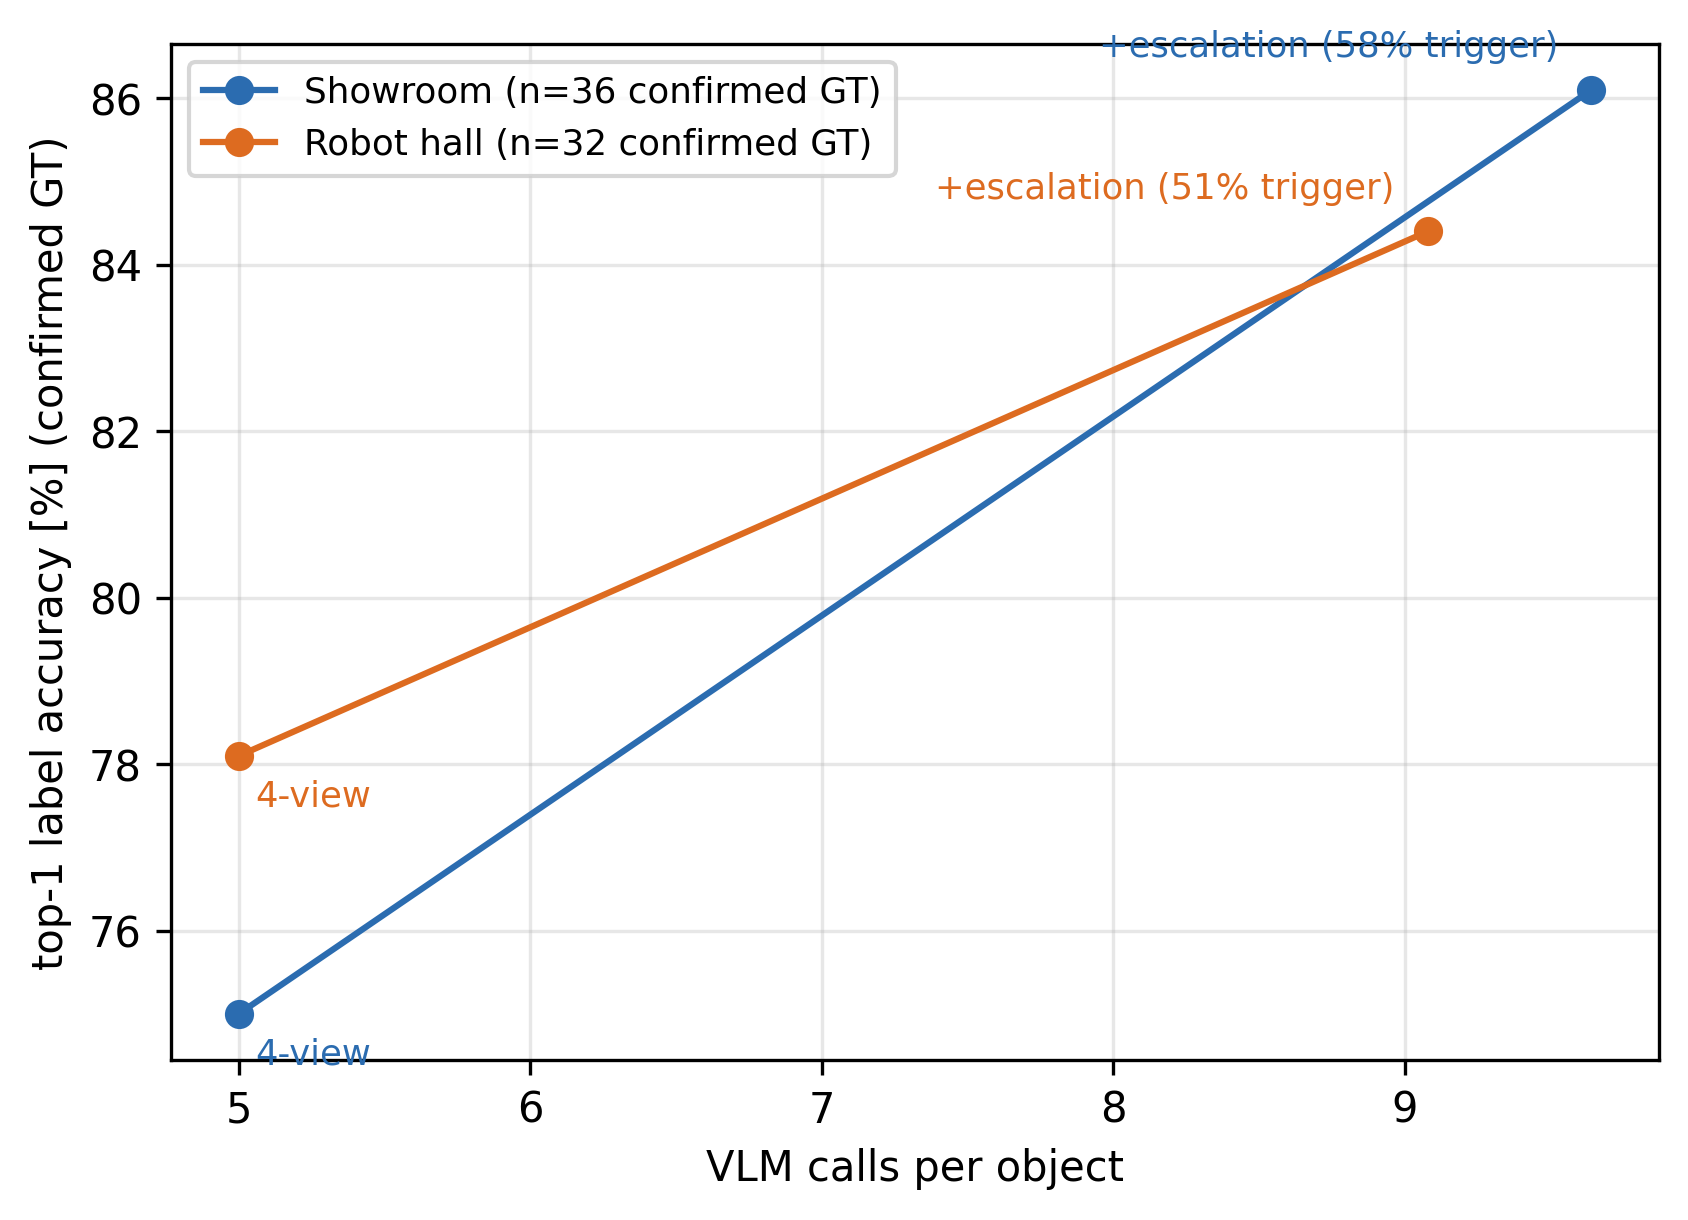
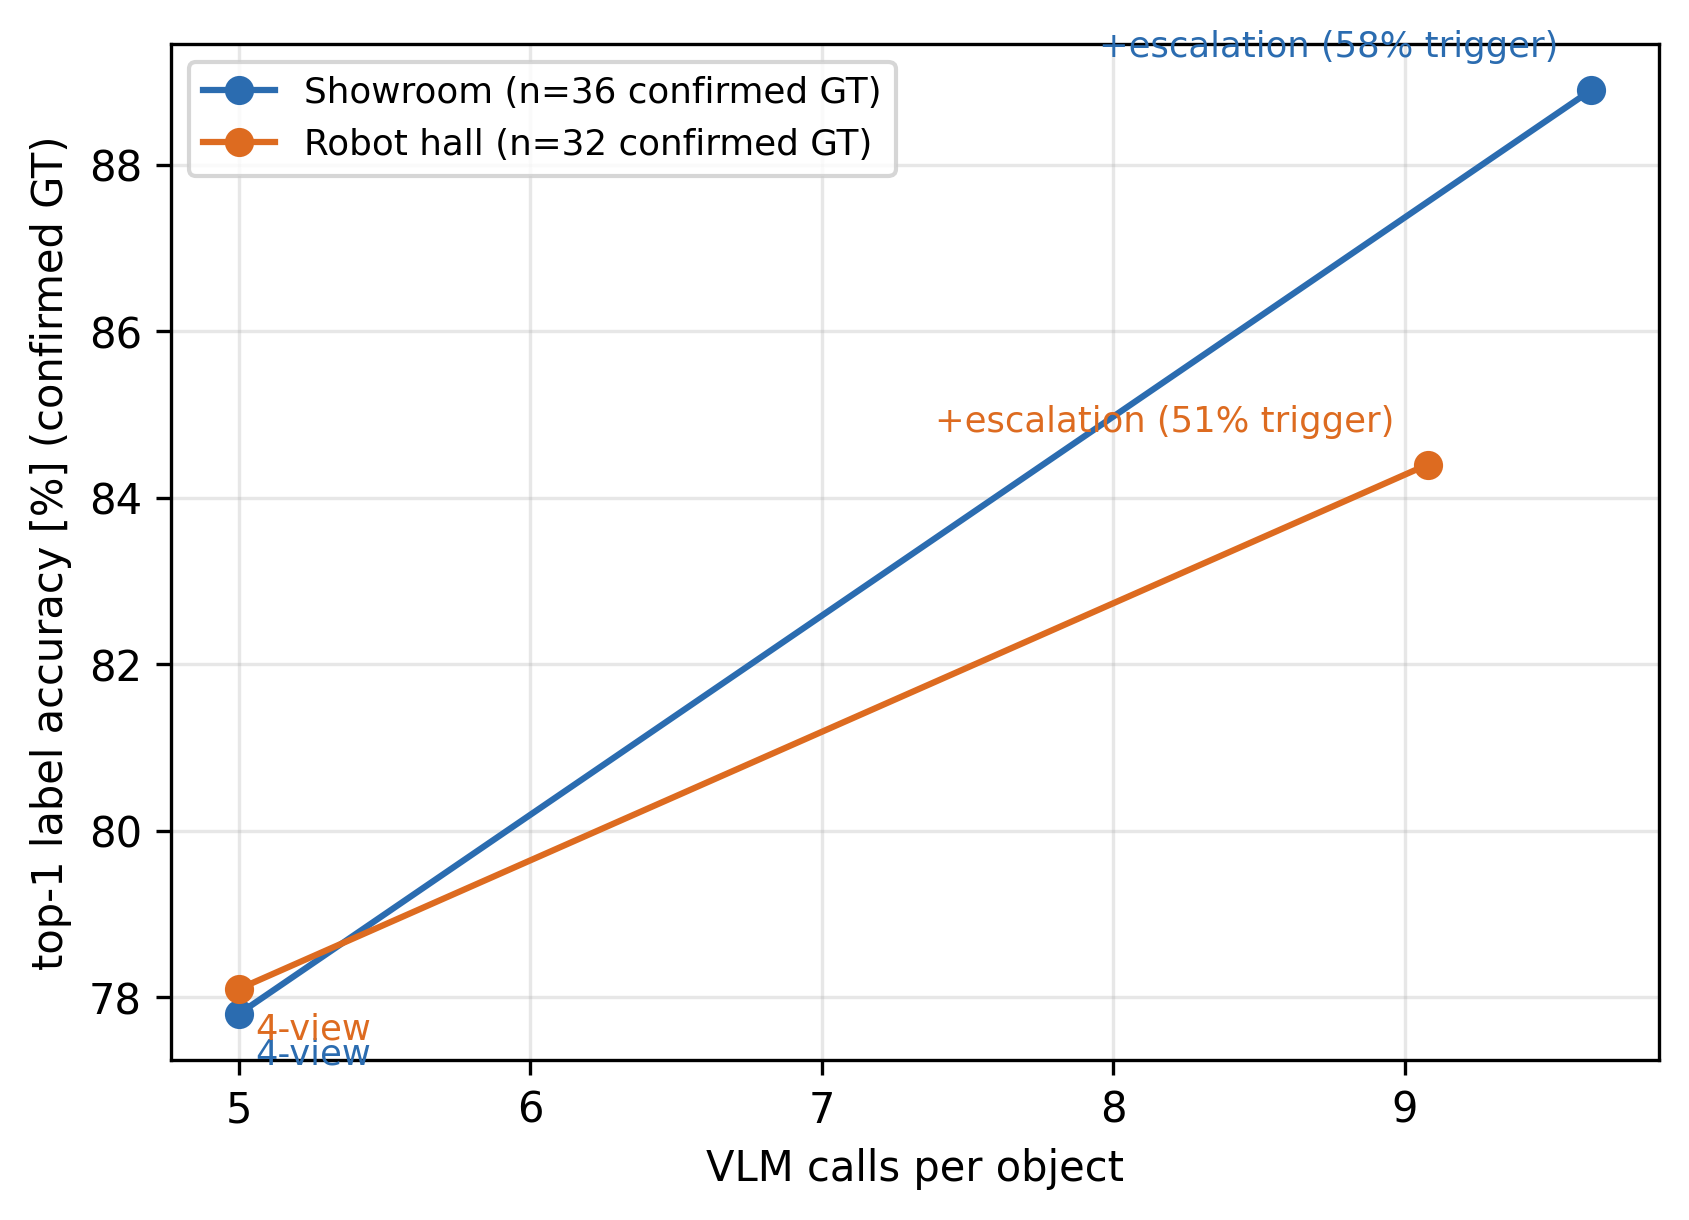
Model-neutral 4.4 + verifier control in 5.1; Sonnet-5 upgrade check in 5.3; current-grading rescore (77.8/88.9); cost-not-accuracy caveat in 5.7

diff --git a/docs/electronics2026/manuscript/sec5_experiments.tex b/docs/electronics2026/manuscript/sec5_experiments.tex
@@ -66,6 +66,15 @@ uses the metrics of Sec.~\ref{sec:matching}: matching accuracy,
 identity-switch rate, false-new, false-absent, and unchanged stability.
 
 \paragraph{Controls.}
+The verifier for the main campaign (Secs.~5.2--5.5) is fixed to a single
+model, \texttt{claude-sonnet-4-6} (the frontier mid-tier at campaign start):
+every verification, escalation, and owner interaction in the accumulated
+knowledge-graph lineage was produced under this one verifier, so results
+remain comparable across sections and revisions. The verifier choice itself
+is then evaluated in Sec.~\ref{sec:exp-ablation}, which repeats the
+identical Stage-B protocol across five commercial VLMs, and
+Sec.~\ref{sec:exp-verify} additionally reports the headline verification
+study re-run under the best-ranked model.
 All query conditions share the same LLM (\texttt{claude-sonnet-4-6}), system
 prompt, query set, decoding parameters, retry policy, and forced answer
 schema; conditions differ \emph{only} in the knowledge view they receive.
@@ -246,18 +255,18 @@ e.g., 21 unanimous $+$ 29 split $=$ 50.}
  & \multicolumn{2}{c}{Showroom ($n{=}36$)} & \multicolumn{2}{c}{Robot hall ($n{=}32$)} \\
  & base-4 & escalated & base-4 & escalated \\
 \midrule
-Accuracy & 75.0\% & \textbf{86.1\%} & 78.1\% & \textbf{84.4\%} \\
+Accuracy & 77.8\% & \textbf{88.9\%} & 78.1\% & \textbf{84.4\%} \\
 Recovered / regressed & \multicolumn{2}{c}{5 / 1} & \multicolumn{2}{c}{3 / 0} \\
 Escalation trigger & \multicolumn{2}{c}{58\% (29/50)} & \multicolumn{2}{c}{51\% (26/51)} \\
 \midrule
 Unanimous precision & \multicolumn{2}{c}{100\% (21/21)} & \multicolumn{2}{c}{94.4\% (of 25)} \\
 Escalated precision & \multicolumn{2}{c}{100\%} & \multicolumn{2}{c}{88.9\%} \\
-Unverified precision & \multicolumn{2}{c}{50\%} & \multicolumn{2}{c}{40\%} \\
+Unverified precision & \multicolumn{2}{c}{60\%} & \multicolumn{2}{c}{40\%} \\
 \bottomrule
 \end{tabular}
 \end{table}
 
-Escalation lifts confirmed-GT accuracy from 75.0\% to 86.1\% on the showroom
+Escalation lifts confirmed-GT accuracy from 77.8\% to 88.9\% on the showroom
 and from 78.1\% to 84.4\% on the robot hall (lenient: 76.2\%
 $\rightarrow$ 83.3\%, $n{=}42$), recovering 5 and 3 split-vote objects while
 regressing 1 and 0 (Table~\ref{tab:verification};
@@ -265,7 +274,7 @@ Fig.~\ref{fig:esccost} shows the accuracy--cost trade-off at
 $\sim$\$0.009/call; escalation adds 232 and 208 calls per scene). The tier
 structure
 justifies gating: unanimous and escalated tiers reach 88.9--100\% precision,
-while the unverified residue is 40--50\%---exactly the content the query
+while the unverified residue is 40--60\%---exactly the content the query
 interface must demote. A separate check evaluates the room-scoped T1 objects
 in the update-study frame (Sec.~\ref{sec:exp-update}), where showroom GT is
 transferred to the re-decomposed clusters by bidirectional point overlap;
@@ -276,6 +285,28 @@ Verification yield tracks scan quality: the manual scan leaves 47\% of
 objects unverified versus 24\% for exploration scans, and re-processing the
 T3 scan from a single setup (1/6 coverage) drops the verified tier from
 75.6\% to 56.6\% on identical geometry. Coverage buys verifiability.
+
+\paragraph{Verifier upgrade check.}
+Because the ground truth is fixed and scoring is automatic, the entire
+study re-runs unchanged under a different verifier. Re-running both scenes
+under \texttt{claude-sonnet-5}---the model Sec.~\ref{sec:exp-ablation}
+ranks most decisive---confirms the decisiveness transfer: escalation
+triggers fall from 58\% to 50\% (showroom) and from 51\% to 33\% (robot
+hall), unanimous verifications rise from 21 to 25 and from 25 to 34, and
+escalation calls drop from 232 to 200 and from 208 to 136. The freed
+decisiveness is not free accuracy, however: unanimous precision falls
+from 100\% to 91.7\% and from 94.4\% to 83.3\%, and escalated accuracy
+lands at 69.4\% and 81.2\% (vs.\ 88.9\% and 84.4\%). The dominant new
+failure is clutter absorption---real chairs, junction boxes, and a
+control panel unanimously verified as \texttt{clutter}---i.e., the newer
+model re-distributes error mass from indecision into confident
+under-labeling on these 512-px render sets, while on the 1024-px renders
+of Sec.~\ref{sec:exp-ablation} it ties for the best type accuracy.
+Verifier upgrades therefore change \emph{where} errors live rather than
+uniformly removing them, which is precisely why the framework treats
+verification as tiered evidence behind a gate rather than as truth: the
+tier structure, the escalation economics, and the owner loop survive a
+verifier swap; the specific precision figures do not.
 
 \paragraph{Error taxonomy.}
 Four recurring error classes emerged (Fig.~\ref{fig:taxonomy}):
@@ -628,7 +659,7 @@ count-phrased trap leaked, 3/4)---still the single strongest argument that
 reliability must live in the data contract, not in instructions. \emph{Pose context}: injecting mounting-height context as a
 targeted defense removed all three phantom ceiling keyboards in its pilot,
 but applying it to every object \emph{reduced} escalated accuracy
-(86.1\%$\rightarrow$72.2\%) and escalated precision
+(88.9\%$\rightarrow$75.0\%) and escalated precision
 (100\%$\rightarrow$72.7\%)---a desk-height prior that helps ceilings hurts
 everything else, so it ships as a targeted defense only. \emph{Uni3D
 vocabulary}: generic-30 66.7\% $>$ curated-20 48.7\% $>$ owner-18 33.3\%
@@ -654,12 +685,17 @@ is generation-dominated, not vendor-dominated: both 2026-generation
 mid-tiers beat both older Claude tiers, and cross-vendor differences
 within the generation are smaller than the tier effects. Escalation
 volume is thus a label-free, online proxy for verifier decisiveness on
-the deployment's own data --- and a purchasing guide: pick the
-cheapest verifier whose escalation rate has saturated. The guide is
-robust where prices are not: a vendor repricing days before our runs
-moved one verifier's end-to-end cost five-fold
-(Table~\ref{tab:vlmcmp}, note~2), while the decisiveness ordering it
-would be applied to is measured on the deployment's own data.
+the deployment's own data --- and a purchasing guide for \emph{cost}:
+pick the cheapest verifier whose escalation rate has saturated. It is
+not a proxy for accuracy: the upgrade check of
+Sec.~\ref{sec:exp-verify} shows the most decisive model trading
+unanimous precision for its decisiveness on the two full GT scenes, so
+quality must still be priced by a small labeled probe set or by
+accumulated owner feedback. The cost guide is robust where prices are
+not: a vendor repricing days before our runs moved one verifier's
+end-to-end cost five-fold (Table~\ref{tab:vlmcmp}, note~2), while the
+decisiveness ordering it would be applied to is measured on the
+deployment's own data.
 
 \begin{table}[t]
 \centering

diff --git a/docs/electronics2026/manuscript/sec4_methodology.tex b/docs/electronics2026/manuscript/sec4_methodology.tex
@@ -120,11 +120,15 @@ label a robot may act on must pass the verification stage below.
 
 Verification renders each object from four azimuths ($0^{\circ}$,
 $90^{\circ}$, $180^{\circ}$, $270^{\circ}$) and submits each view
-independently to a VLM (\texttt{claude-sonnet-4-6}) under a forced tool-use
+independently to a vision--language model under a forced tool-use
 schema: the model must return a type, a confidence, and a stated reason, with
 the object's measured dimensions and provisional label provided as context.
 Free-text answers are impossible by construction, and prompts, decoding
-parameters, and model version are recorded with every result.
+parameters, and model version are recorded with every result. The verifier
+model itself is a swappable component, not part of the design: the concrete
+model is an experimental control (Sec.~5.1), and Sec.~5.7 repeats the
+identical protocol across five commercial VLMs to characterize how the
+choice affects decisiveness, accuracy, and cost.
 
 Per-view votes are combined by confidence-weighted late fusion into a fused
 type and a \emph{vote share}. Three outcomes follow. If the votes are

diff --git a/docs/electronics2026/manuscript/main.tex b/docs/electronics2026/manuscript/main.tex
@@ -46,7 +46,7 @@ retains unresolved objects as explicitly unverified; and an
 identity-preserving incremental update that applies confidence-gated
 node-level upserts to mint-once node identities without rebuilding the
 graph. On two industrial indoor scenes, escalation lifts verification
-accuracy from 75.0\% to 86.1\% and from 78.1\% to 84.4\%, with
+accuracy from 77.8\% to 88.9\% and from 78.1\% to 84.4\%, with
 94.4--100\% precision for unanimous votes; on the showroom scene,
 structurally gated querying answers 83.3\% of benchmark questions versus
 52.1\% for an ungrounded LLM while blocking unverified-label hallucination

diff --git a/docs/electronics2026/manuscript/mdpi/main_mdpi.tex b/docs/electronics2026/manuscript/mdpi/main_mdpi.tex
@@ -72,7 +72,7 @@ retains unresolved objects as explicitly unverified; and an
 identity-preserving incremental update that applies confidence-gated
 node-level upserts to mint-once node identities without rebuilding the
 graph. On two industrial indoor scenes, escalation lifts verification
-accuracy from 75.0\% to 86.1\% and from 78.1\% to 84.4\%, with
+accuracy from 77.8\% to 88.9\% and from 78.1\% to 84.4\%, with
 94.4--100\% precision for unanimous votes; on the showroom scene,
 structurally gated querying answers 83.3\% of benchmark questions versus
 52.1\% for an ungrounded LLM while blocking unverified-label hallucination
